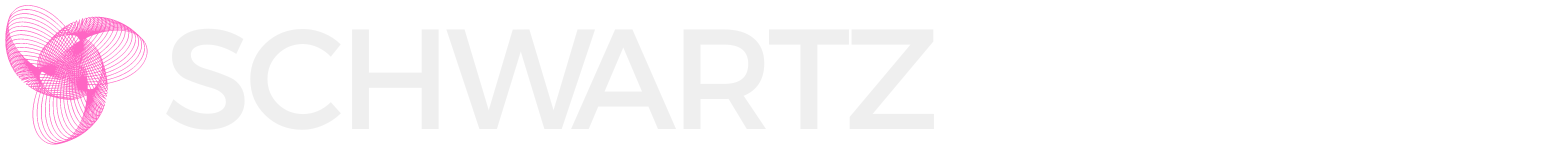
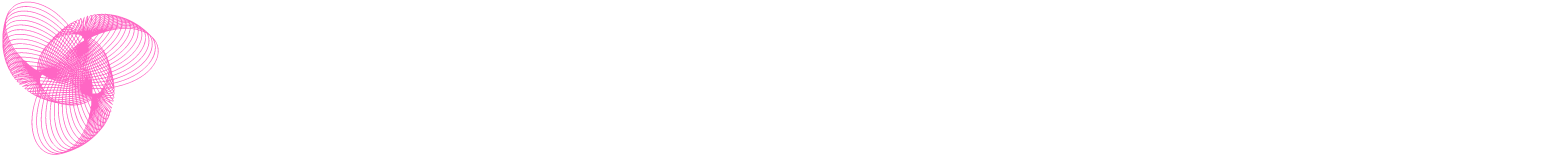
more style

Changed region(s): [[0.0, 0.0, 0.1228, 1.0]]

diff --git a/index.html b/index.html
@@ -106,7 +106,8 @@
                 <div class="mainHeader">
                     <div class="mainTitle">
                         <span>
-                            <img src="/img/stackedlogo.png" alt="Glenn Schwartz Developer Logo" class="mainLogo" />
+                            <img src="/img/stackedlogo.png" alt="Glenn Schwartz Developer Logo" class="mainLogo d-none d-md-block" />
+                            <img src="/img/stackedlogosmall.png" alt="Glenn Schwartz Developer Logo" class="mainLogo d-md-none" />
                         </span>
                     </div>
                     <a href="#contact" class="btn btn-primary w-100">
